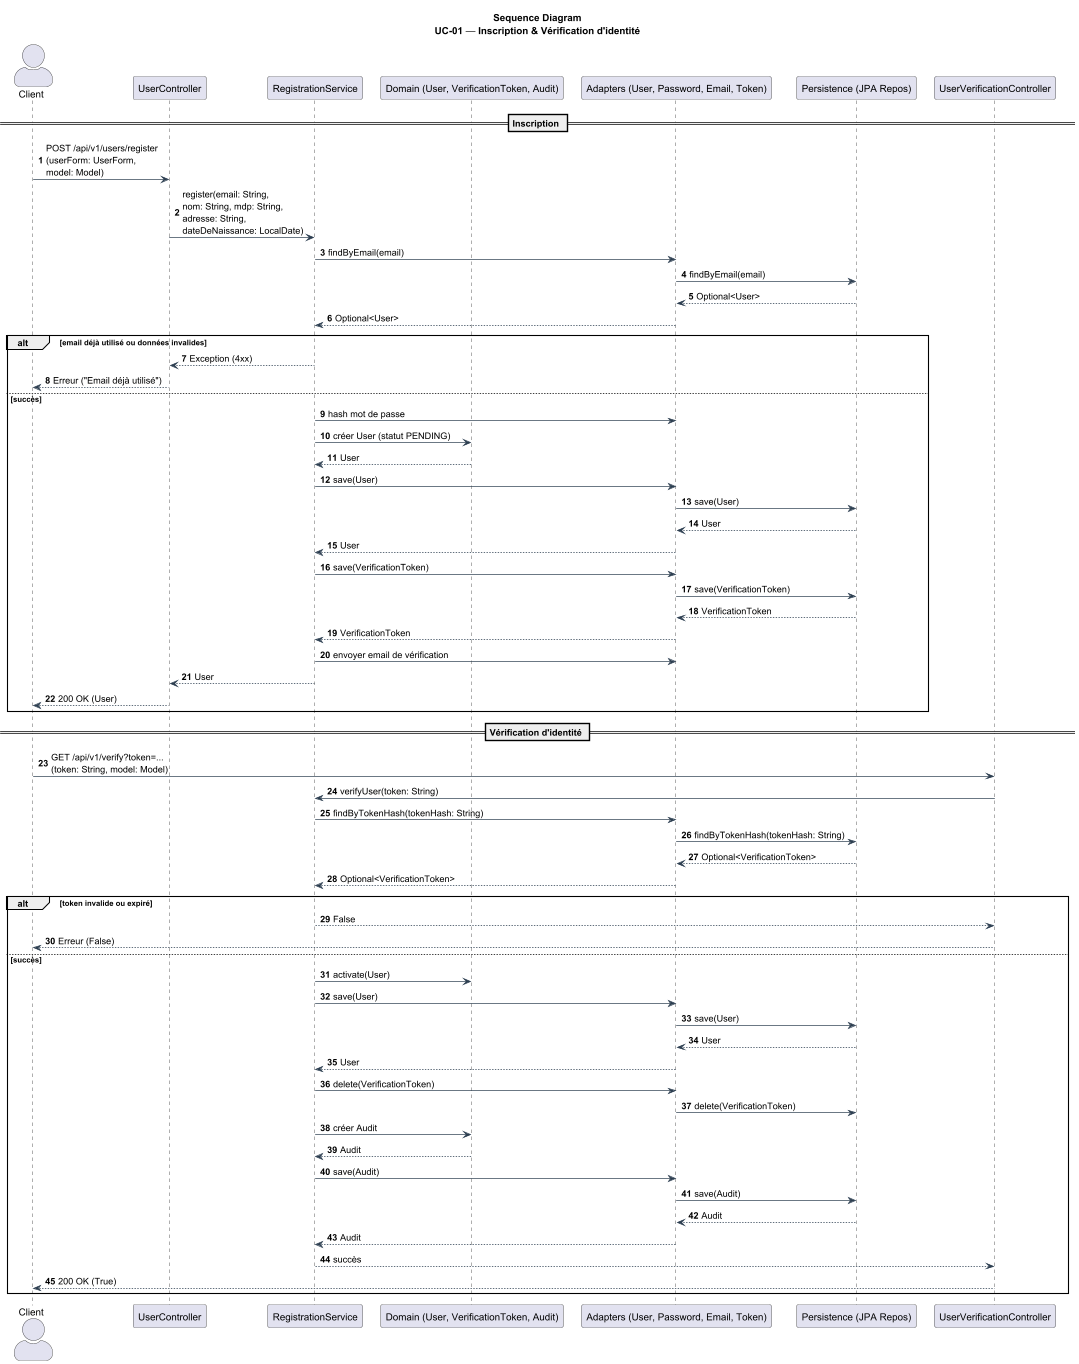
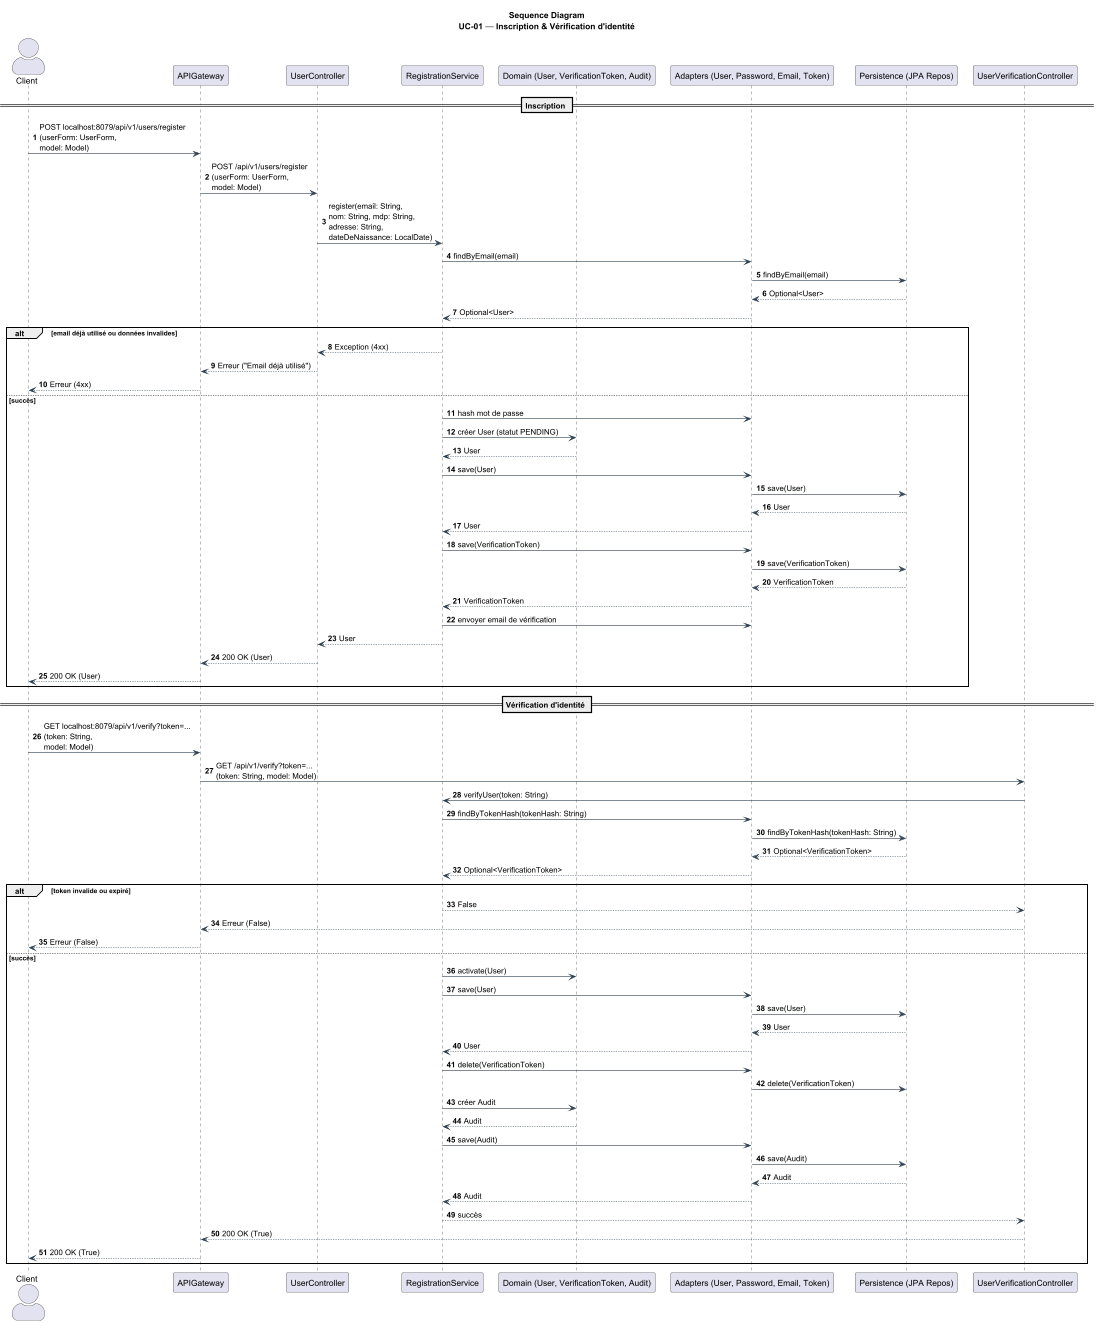
Update diagrammes de séquence

diff --git a/docs/rapport.md b/docs/rapport.md
@@ -1,23 +1,3 @@
-# Rapport final BrokerX phase 2 (Microservices)
-
-<img src="https://upload.wikimedia.org/wikipedia/commons/2/2a/Ets_quebec_logo.png" width="250">\
-Hugo Vaillant\
-Rapport de laboratoire\
-LOG430 — Architecture logicielle\
-28 octobre 2025\
-École de technologie supérieure
-
-Ce document constitue le rapport final de la phase 2 du projet BrokerX. Il regroupe l’ensemble de la documentation d’architecture (arc42), ainsi que les guides pratiques nécessaires à l’exploitation et à la démonstration du système. Vous y trouverez :
-- La documentation complète de l’architecture (arc42)
-- Les rapports comparatifs montrant l'usage de grafana et de tests de charge
-- Une explication des travaux CI/CD accomplis
-- Un guide d’exploitation (runbook) pour l’administration et la maintenance
-- Un guide de démonstration pour présenter les fonctionnalités clés
-
-*note : Le guide d'exploitation ainsi que le guide de démonstration se trouvent à la toute fin du document.*
-
----
-
 # Début de la documentation arc42
 
 # 1. Introduction & Objectifs
